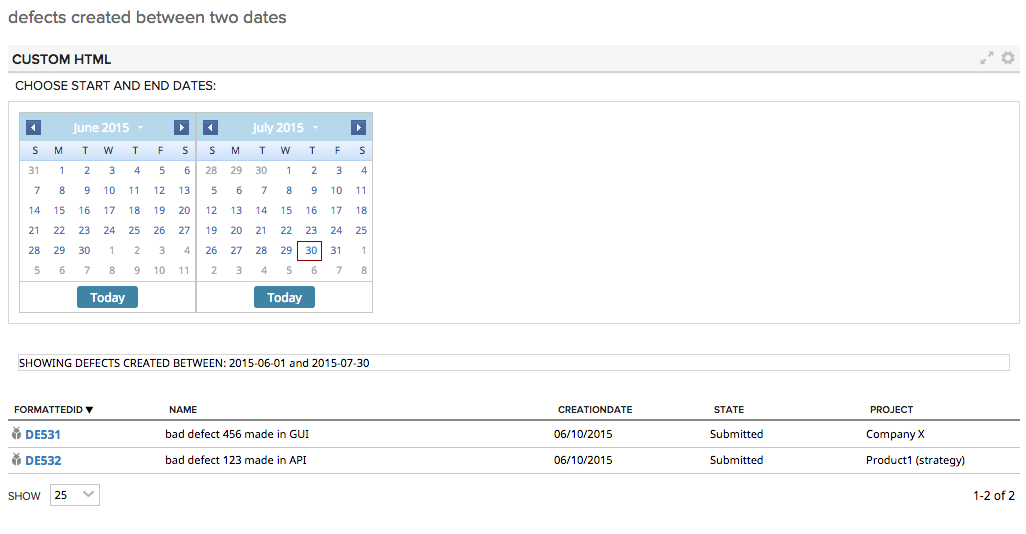
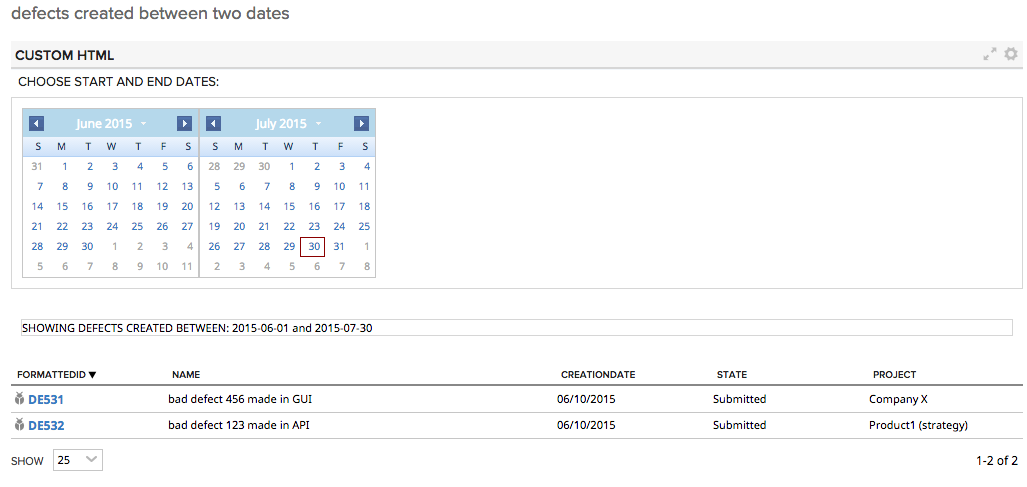
removed Today button from datepicker

diff --git a/deploy/App-external.html b/deploy/App-external.html
@@ -7,7 +7,7 @@
 
     <script type="text/javascript">
         Rally.onReady(function () {
-                Ext.define("CustomApp",{extend:"Rally.app.App",componentCls:"app",_startDate:null,_endDate:null,launch:function(){var that=this,minDate=new Date(new Date-31104e6),datePicker=Ext.create("Ext.panel.Panel",{title:"Choose start and end dates:",bodyPadding:10,renderTo:Ext.getBody(),layout:"hbox",items:[{xtype:"rallydatepicker",itemId:"from",minDate:minDate,handler:function(picker,date){that._onStartDateSelected(date)}},{xtype:"rallydatepicker",itemId:"to",minDate:minDate,handler:function(picker,date){that._onEndDateSelected(date)}}]});this.add(datePicker);var panel=Ext.create("Ext.panel.Panel",{id:"infoPanel",padding:"30 10 30",componentCls:"panel"});this.add(panel)},_onStartDateSelected:function(date){console.log(date),this._startDate=Rally.util.DateTime.format(new Date(date),"Y-m-d"),this._endDate?(Ext.getCmp("infoPanel").update("SHOWING DEFECTS CREATED BETWEEN: "+this._startDate+" and "+this._endDate),this._getData()):Ext.getCmp("infoPanel").update("START DATE SELECTED: "+this._startDate+". PICK END DATE")},_onEndDateSelected:function(date){console.log(date),this._endDate=Rally.util.DateTime.format(new Date(date),"Y-m-d"),Ext.getCmp("infoPanel").update("SHOWING DEFECTS CREATED BETWEEN: "+this._startDate+" and "+this._endDate),this._getData()},_getData:function(){var projectRef=this.getContext().getProject()._ref;this._filters=[{property:"CreationDate",operator:">=",value:this._startDate},{property:"CreationDate",operator:"<=",value:this._endDate},{property:"Tags.Name",operator:"contains",value:"Customer Voice"}];var storeConfig={model:"Defect",remoteSort:!1,fetch:["Name","State","CreationDate","FormattedID","ObjectID","Project"],filters:this._filters};this._updateGrid(storeConfig)},_updateGrid:function(storeConfig){void 0===this._grid?this._createGrid(storeConfig):(this._grid.store.clearFilter(!0),this._grid.store.filter(this._filters))},_createGrid:function(storeConfig){var that=this;this._grid=Ext.create("Rally.ui.grid.Grid",{storeConfig:storeConfig,enableEditing:!1,showRowActionsColumn:!1,columnCfgs:[{text:"FormattedID",dataIndex:"FormattedID"},{text:"Name",dataIndex:"Name"},{text:"CreationDate",dataIndex:"CreationDate"},{text:"State",dataIndex:"State"},{text:"Project",dataIndex:"Project"}]}),this.add(this._grid)}});
+                Ext.define("CustomApp",{extend:"Rally.app.App",componentCls:"app",_startDate:null,_endDate:null,launch:function(){var that=this,minDate=new Date(new Date-31104e6),datePicker=Ext.create("Ext.panel.Panel",{title:"Choose start and end dates:",bodyPadding:10,renderTo:Ext.getBody(),layout:"hbox",items:[{xtype:"rallydatepicker",itemId:"from",minDate:minDate,showToday:!1,handler:function(picker,date){that._onStartDateSelected(date)}},{xtype:"rallydatepicker",itemId:"to",minDate:minDate,showToday:!1,handler:function(picker,date){that._onEndDateSelected(date)}}]});this.add(datePicker);var panel=Ext.create("Ext.panel.Panel",{id:"infoPanel",padding:"30 10 30",componentCls:"panel"});this.add(panel)},_onStartDateSelected:function(date){console.log(date),this._startDate=Rally.util.DateTime.format(new Date(date),"Y-m-d"),this._endDate?(Ext.getCmp("infoPanel").update("SHOWING DEFECTS CREATED BETWEEN: "+this._startDate+" and "+this._endDate),this._getData()):Ext.getCmp("infoPanel").update("START DATE SELECTED: "+this._startDate+". PICK END DATE")},_onEndDateSelected:function(date){console.log(date),this._endDate=Rally.util.DateTime.format(new Date(date),"Y-m-d"),Ext.getCmp("infoPanel").update("SHOWING DEFECTS CREATED BETWEEN: "+this._startDate+" and "+this._endDate),this._getData()},_getData:function(){var projectRef=this.getContext().getProject()._ref;this._filters=[{property:"CreationDate",operator:">=",value:this._startDate},{property:"CreationDate",operator:"<=",value:this._endDate},{property:"Tags.Name",operator:"contains",value:"Customer Voice"}];var storeConfig={model:"Defect",remoteSort:!1,fetch:["Name","State","CreationDate","FormattedID","ObjectID","Project"],filters:this._filters};this._updateGrid(storeConfig)},_updateGrid:function(storeConfig){void 0===this._grid?this._createGrid(storeConfig):(this._grid.store.clearFilter(!0),this._grid.store.filter(this._filters))},_createGrid:function(storeConfig){var that=this;this._grid=Ext.create("Rally.ui.grid.Grid",{storeConfig:storeConfig,enableEditing:!1,showRowActionsColumn:!1,columnCfgs:[{text:"FormattedID",dataIndex:"FormattedID"},{text:"Name",dataIndex:"Name"},{text:"CreationDate",dataIndex:"CreationDate"},{text:"State",dataIndex:"State"},{text:"Project",dataIndex:"Project"}]}),this.add(this._grid)}});
 
             Rally.launchApp('CustomApp', {
                 name:"Defects created within dates",

diff --git a/deploy/App.html b/deploy/App.html
@@ -7,7 +7,7 @@
 
     <script type="text/javascript">
         Rally.onReady(function () {
-                Ext.define("CustomApp",{extend:"Rally.app.App",componentCls:"app",_startDate:null,_endDate:null,launch:function(){var that=this,minDate=new Date(new Date-31104e6),datePicker=Ext.create("Ext.panel.Panel",{title:"Choose start and end dates:",bodyPadding:10,renderTo:Ext.getBody(),layout:"hbox",items:[{xtype:"rallydatepicker",itemId:"from",minDate:minDate,handler:function(picker,date){that._onStartDateSelected(date)}},{xtype:"rallydatepicker",itemId:"to",minDate:minDate,handler:function(picker,date){that._onEndDateSelected(date)}}]});this.add(datePicker);var panel=Ext.create("Ext.panel.Panel",{id:"infoPanel",padding:"30 10 30",componentCls:"panel"});this.add(panel)},_onStartDateSelected:function(date){console.log(date),this._startDate=Rally.util.DateTime.format(new Date(date),"Y-m-d"),this._endDate?(Ext.getCmp("infoPanel").update("SHOWING DEFECTS CREATED BETWEEN: "+this._startDate+" and "+this._endDate),this._getData()):Ext.getCmp("infoPanel").update("START DATE SELECTED: "+this._startDate+". PICK END DATE")},_onEndDateSelected:function(date){console.log(date),this._endDate=Rally.util.DateTime.format(new Date(date),"Y-m-d"),Ext.getCmp("infoPanel").update("SHOWING DEFECTS CREATED BETWEEN: "+this._startDate+" and "+this._endDate),this._getData()},_getData:function(){var projectRef=this.getContext().getProject()._ref;this._filters=[{property:"CreationDate",operator:">=",value:this._startDate},{property:"CreationDate",operator:"<=",value:this._endDate},{property:"Tags.Name",operator:"contains",value:"Customer Voice"}];var storeConfig={model:"Defect",remoteSort:!1,fetch:["Name","State","CreationDate","FormattedID","ObjectID","Project"],filters:this._filters};this._updateGrid(storeConfig)},_updateGrid:function(storeConfig){void 0===this._grid?this._createGrid(storeConfig):(this._grid.store.clearFilter(!0),this._grid.store.filter(this._filters))},_createGrid:function(storeConfig){var that=this;this._grid=Ext.create("Rally.ui.grid.Grid",{storeConfig:storeConfig,enableEditing:!1,showRowActionsColumn:!1,columnCfgs:[{text:"FormattedID",dataIndex:"FormattedID"},{text:"Name",dataIndex:"Name"},{text:"CreationDate",dataIndex:"CreationDate"},{text:"State",dataIndex:"State"},{text:"Project",dataIndex:"Project"}]}),this.add(this._grid)}});
+                Ext.define("CustomApp",{extend:"Rally.app.App",componentCls:"app",_startDate:null,_endDate:null,launch:function(){var that=this,minDate=new Date(new Date-31104e6),datePicker=Ext.create("Ext.panel.Panel",{title:"Choose start and end dates:",bodyPadding:10,renderTo:Ext.getBody(),layout:"hbox",items:[{xtype:"rallydatepicker",itemId:"from",minDate:minDate,showToday:!1,handler:function(picker,date){that._onStartDateSelected(date)}},{xtype:"rallydatepicker",itemId:"to",minDate:minDate,showToday:!1,handler:function(picker,date){that._onEndDateSelected(date)}}]});this.add(datePicker);var panel=Ext.create("Ext.panel.Panel",{id:"infoPanel",padding:"30 10 30",componentCls:"panel"});this.add(panel)},_onStartDateSelected:function(date){console.log(date),this._startDate=Rally.util.DateTime.format(new Date(date),"Y-m-d"),this._endDate?(Ext.getCmp("infoPanel").update("SHOWING DEFECTS CREATED BETWEEN: "+this._startDate+" and "+this._endDate),this._getData()):Ext.getCmp("infoPanel").update("START DATE SELECTED: "+this._startDate+". PICK END DATE")},_onEndDateSelected:function(date){console.log(date),this._endDate=Rally.util.DateTime.format(new Date(date),"Y-m-d"),Ext.getCmp("infoPanel").update("SHOWING DEFECTS CREATED BETWEEN: "+this._startDate+" and "+this._endDate),this._getData()},_getData:function(){var projectRef=this.getContext().getProject()._ref;this._filters=[{property:"CreationDate",operator:">=",value:this._startDate},{property:"CreationDate",operator:"<=",value:this._endDate},{property:"Tags.Name",operator:"contains",value:"Customer Voice"}];var storeConfig={model:"Defect",remoteSort:!1,fetch:["Name","State","CreationDate","FormattedID","ObjectID","Project"],filters:this._filters};this._updateGrid(storeConfig)},_updateGrid:function(storeConfig){void 0===this._grid?this._createGrid(storeConfig):(this._grid.store.clearFilter(!0),this._grid.store.filter(this._filters))},_createGrid:function(storeConfig){var that=this;this._grid=Ext.create("Rally.ui.grid.Grid",{storeConfig:storeConfig,enableEditing:!1,showRowActionsColumn:!1,columnCfgs:[{text:"FormattedID",dataIndex:"FormattedID"},{text:"Name",dataIndex:"Name"},{text:"CreationDate",dataIndex:"CreationDate"},{text:"State",dataIndex:"State"},{text:"Project",dataIndex:"Project"}]}),this.add(this._grid)}});
 
             Rally.launchApp('CustomApp', {
                 name:"Defects created within dates",

diff --git a/App.js b/App.js
@@ -15,6 +15,7 @@ Ext.define('CustomApp', {
 		xtype: 'rallydatepicker',
 		itemId: 'from',
 		minDate: minDate,
+                showToday: false,
 		handler: function(picker, date) {
 		     that._onStartDateSelected(date);
 		    }
@@ -23,6 +24,7 @@ Ext.define('CustomApp', {
 		xtype: 'rallydatepicker',
 		itemId: 'to',
 		minDate: minDate,
+                showToday: false,
 		handler: function(picker, date) {
 		     that._onEndDateSelected(date);
 		}

diff --git a/deploy/App-uncompressed.html b/deploy/App-uncompressed.html
@@ -24,6 +24,7 @@
 		xtype: 'rallydatepicker',
 		itemId: 'from',
 		minDate: minDate,
+                showToday: false,
 		handler: function(picker, date) {
 		     that._onStartDateSelected(date);
 		    }
@@ -32,6 +33,7 @@
 		xtype: 'rallydatepicker',
 		itemId: 'to',
 		minDate: minDate,
+                showToday: false,
 		handler: function(picker, date) {
 		     that._onEndDateSelected(date);
 		}
